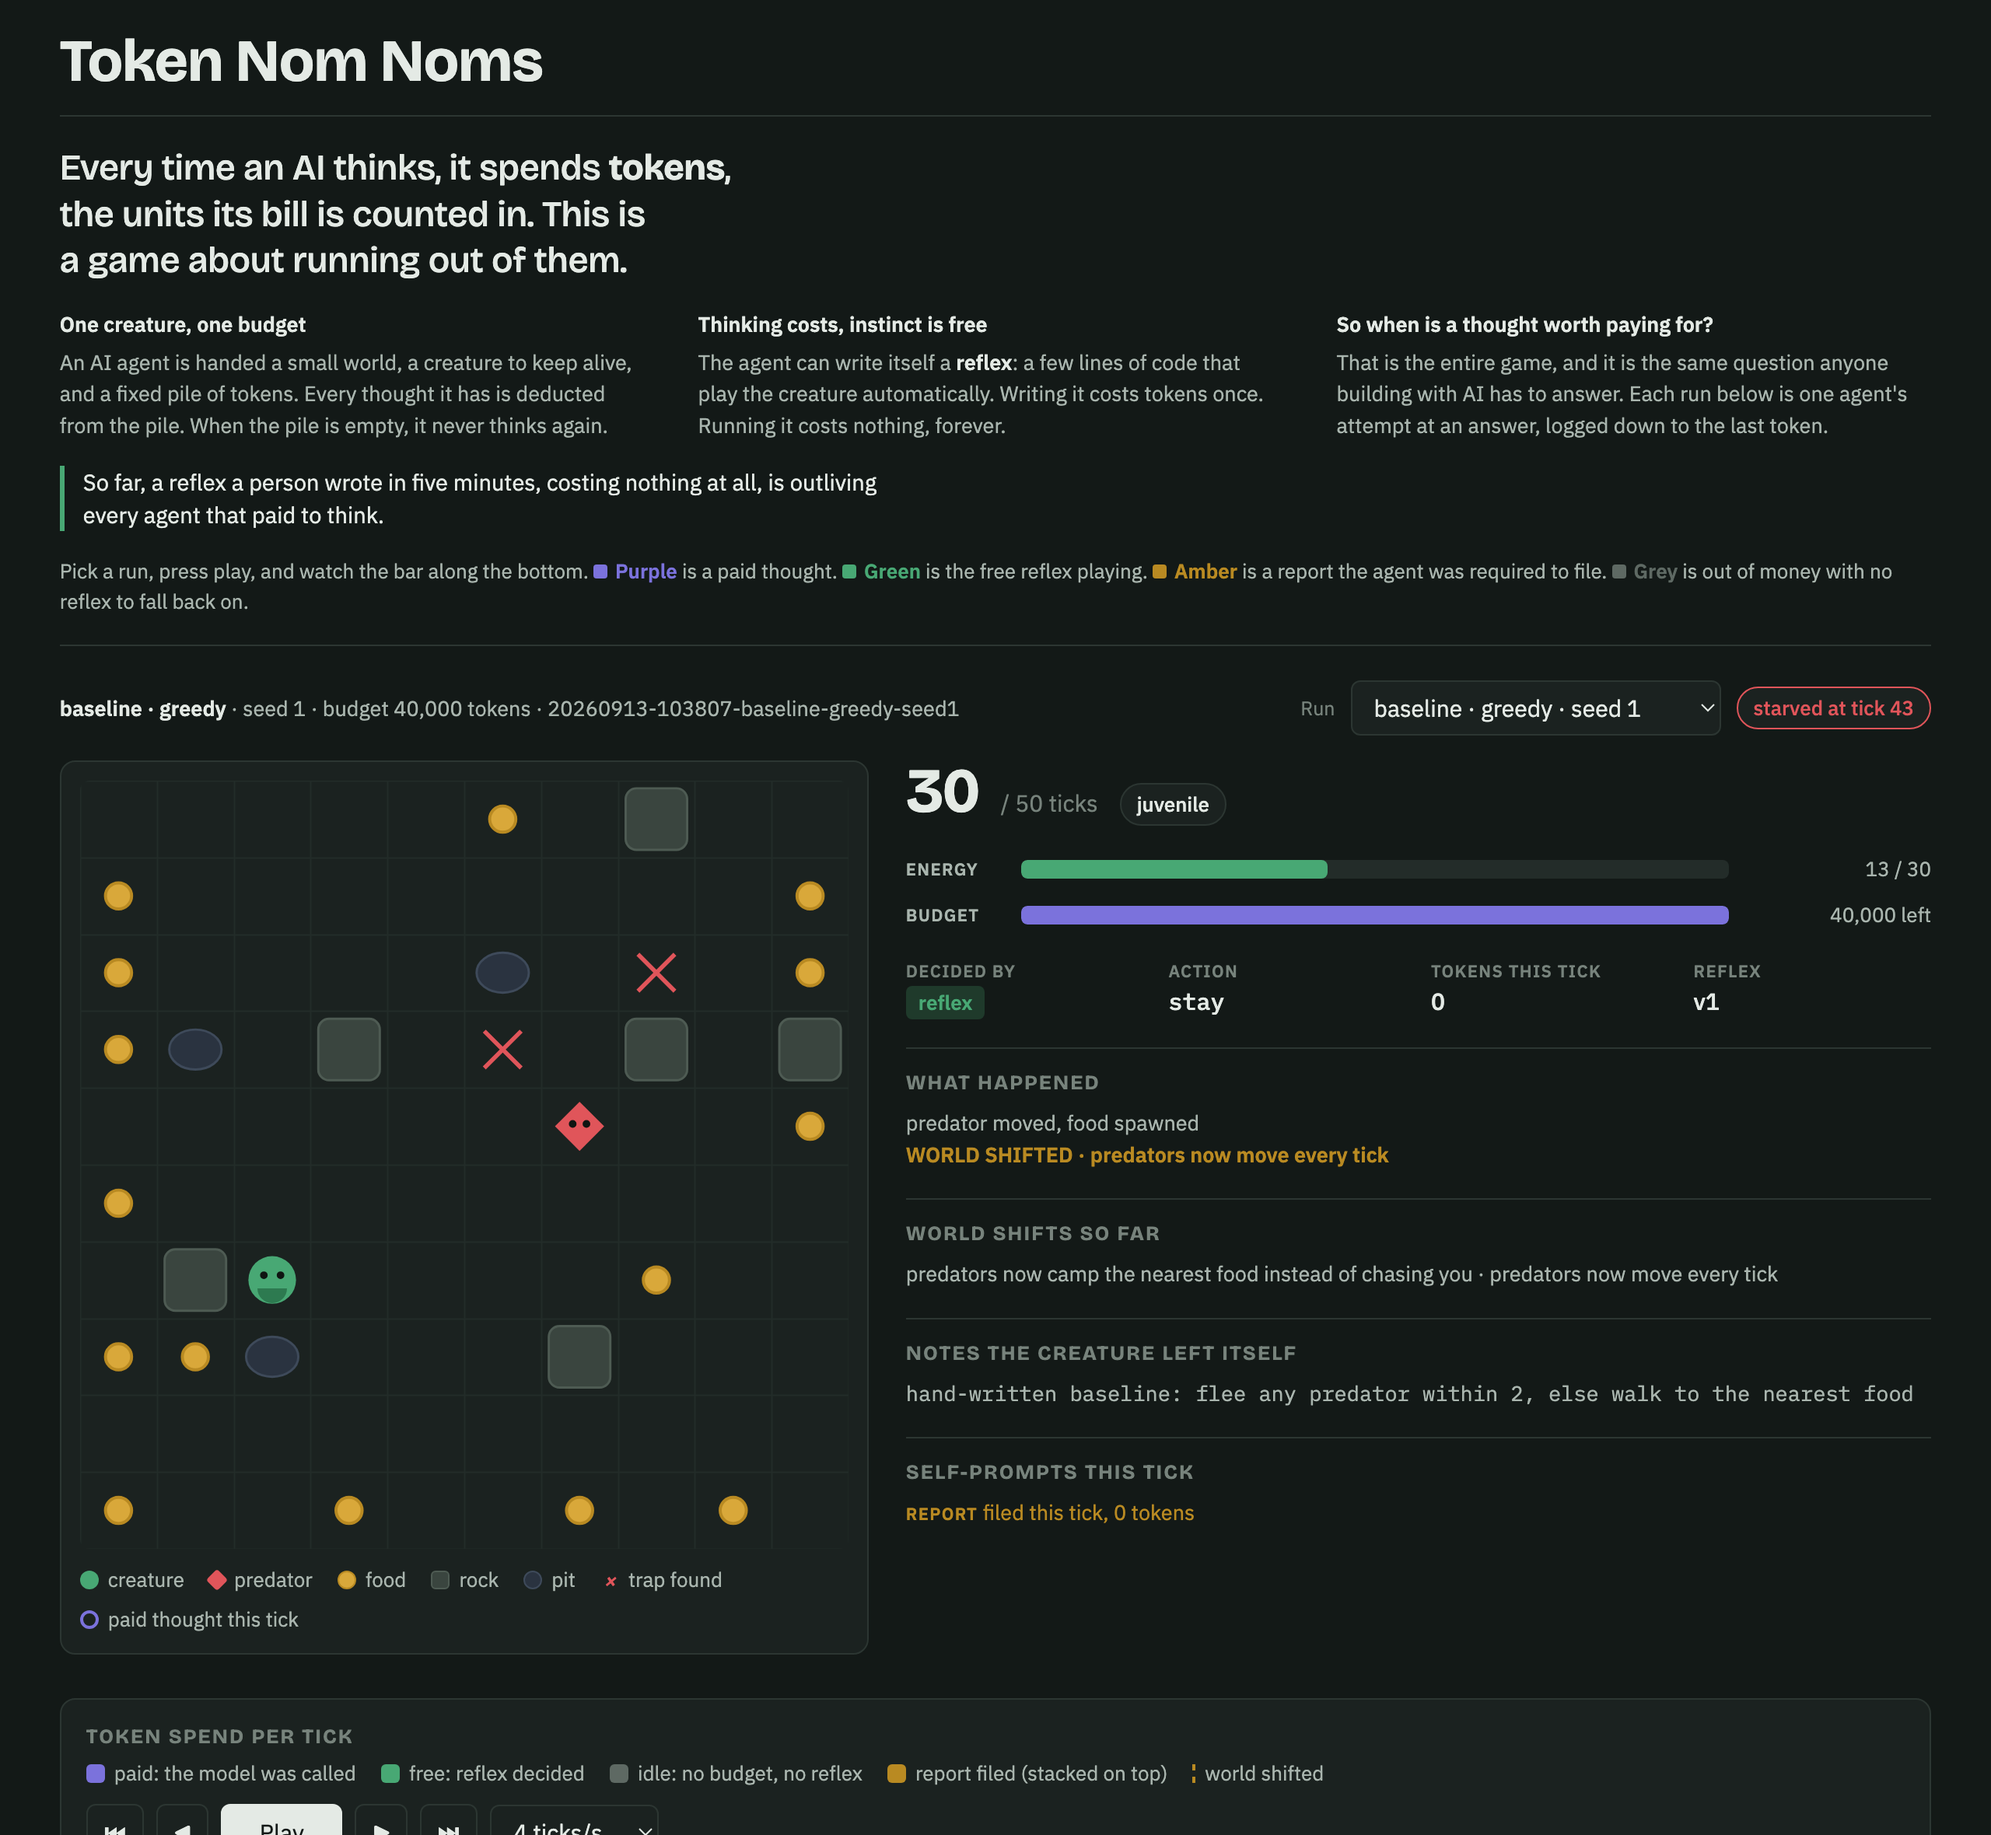
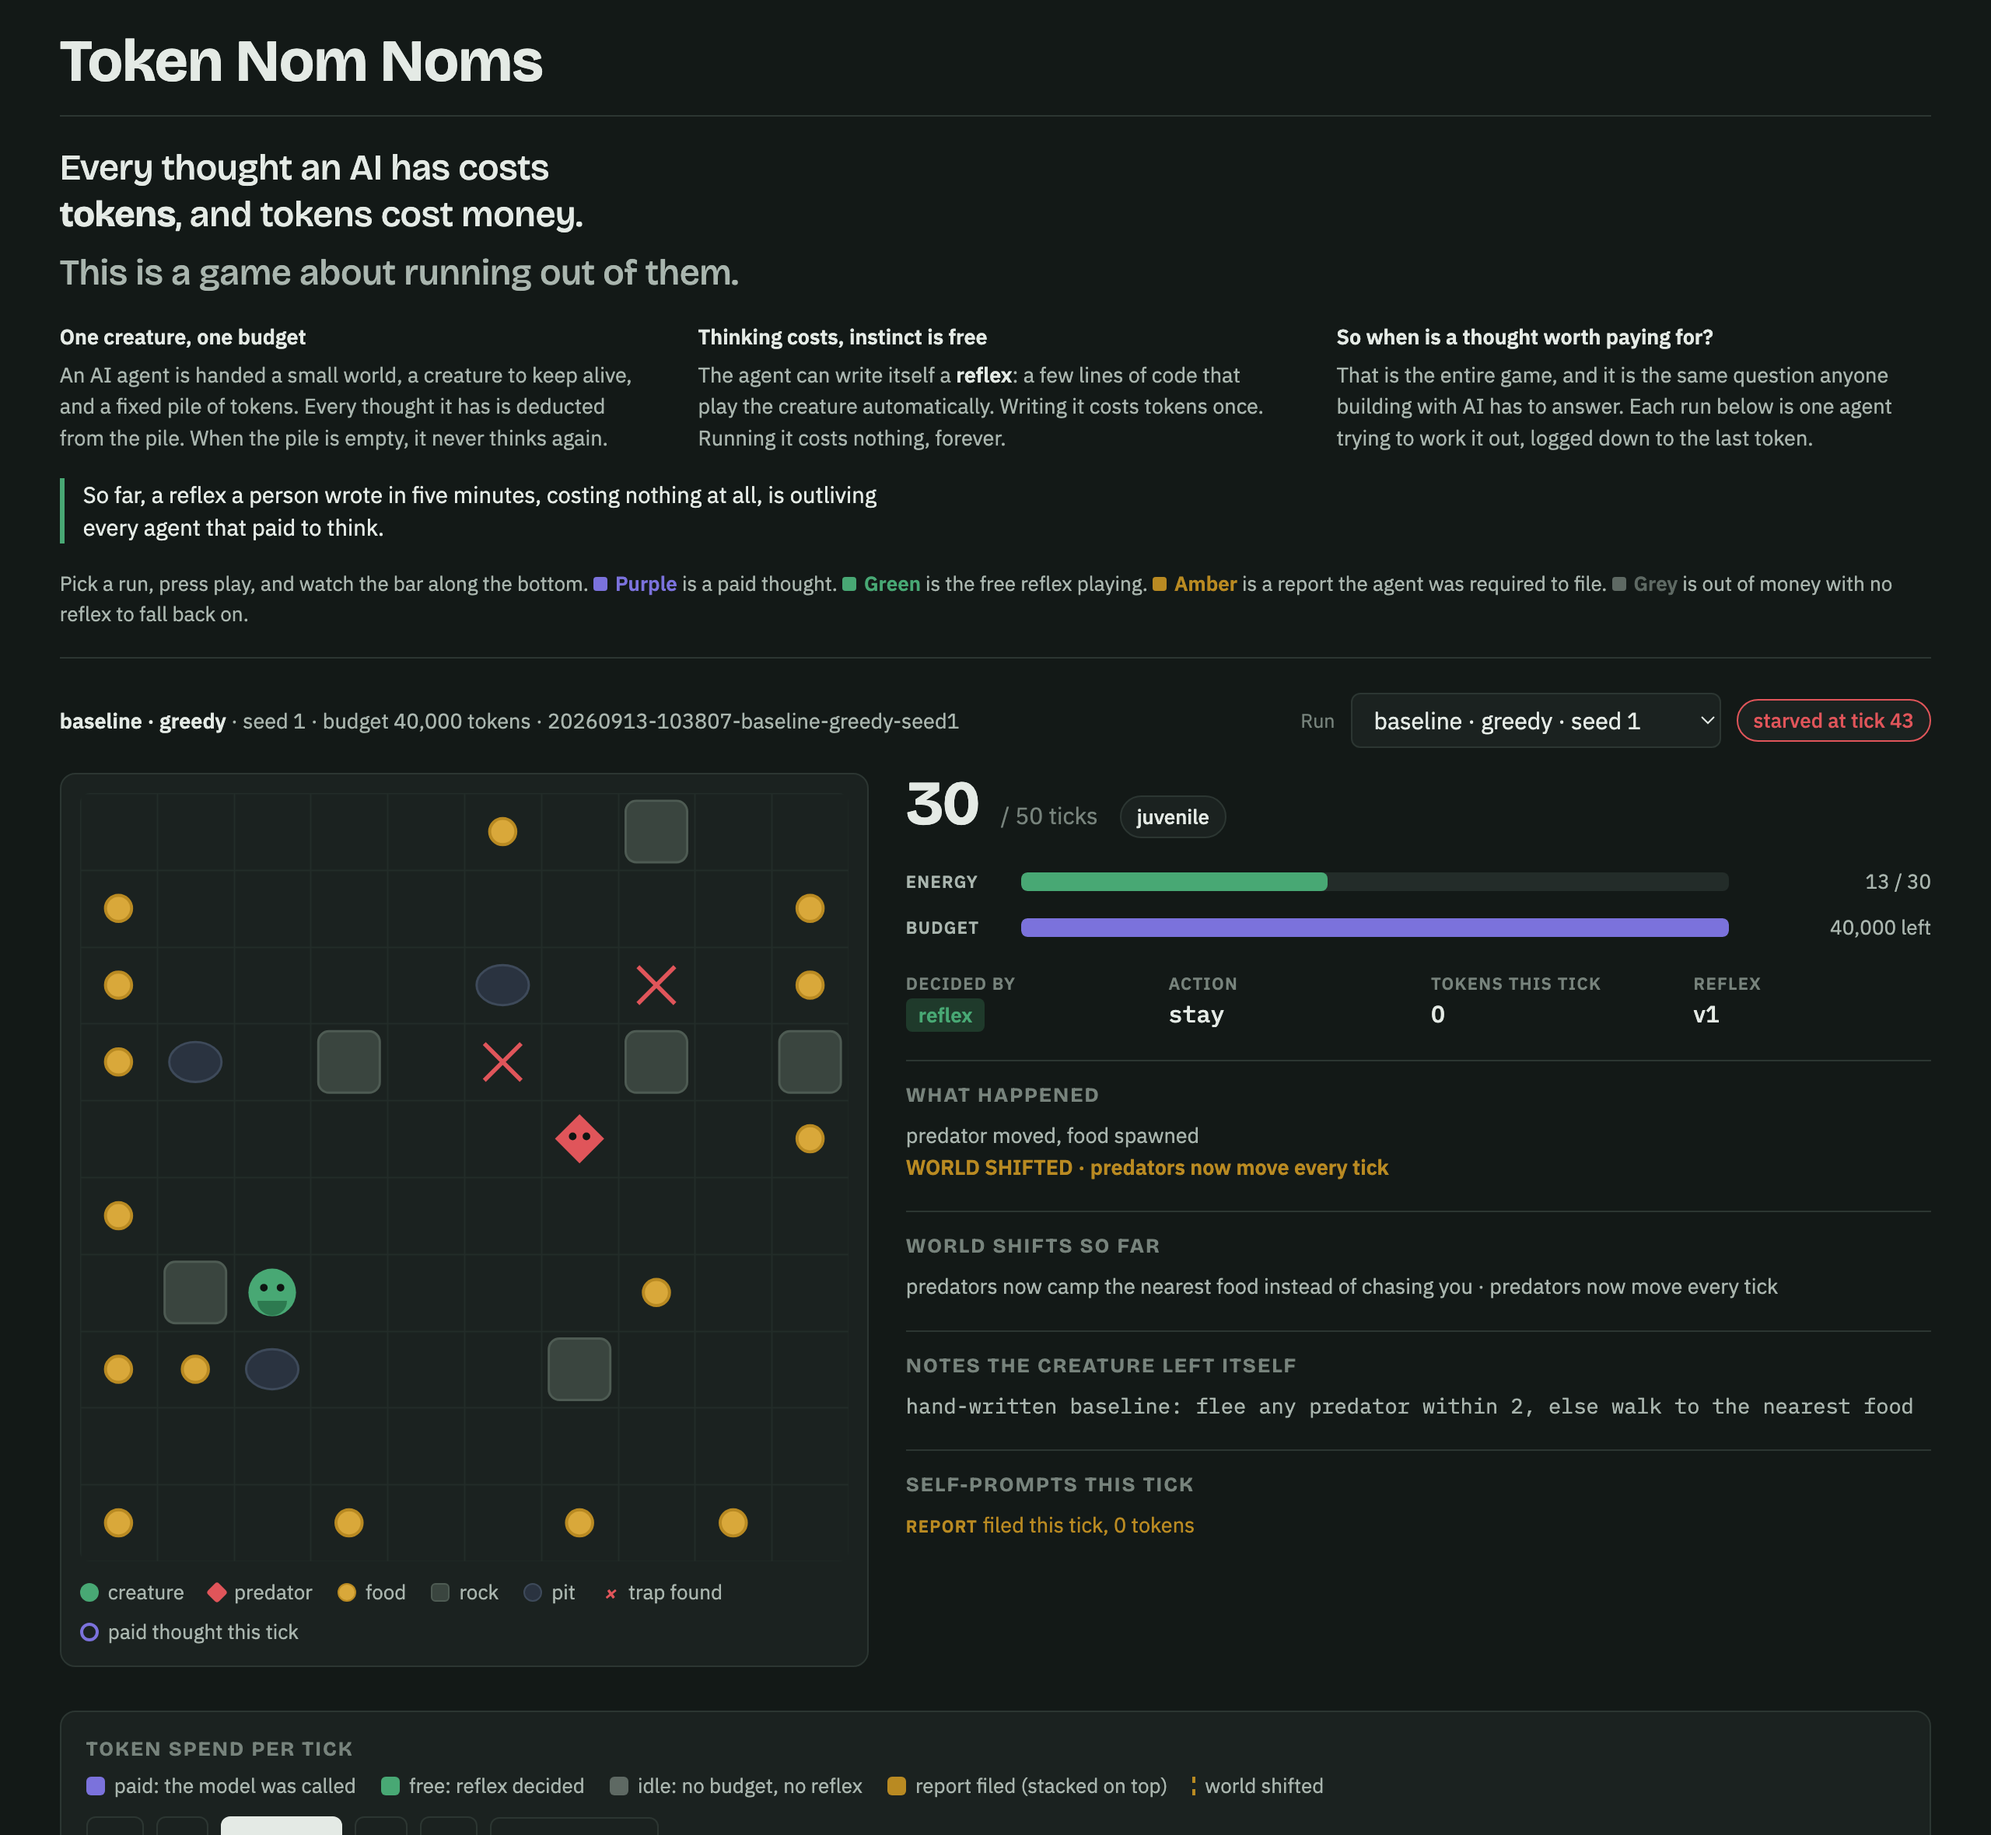
Plainer opening line on the landing page
"the units its bill is counted in" was an awkward gloss on "tokens". The
opening now says the same thing in words people use: every thought an AI has
costs tokens, and tokens cost money. The thesis that follows sits on its own
line so it reads as the claim it is.

Also drops an "answer ... answer" repetition in the third card.

Claude-Session: https://claude.ai/code/session_015Nv8rGndMP9cArJpVdB4Jq

diff --git a/docs/index.html b/docs/index.html
@@ -52,8 +52,9 @@ button:hover,select:hover{border-color:var(--ink-3)}
 button:focus-visible,select:focus-visible,input:focus-visible,canvas:focus-visible,.strip:focus-visible{outline:2px solid var(--focus);outline-offset:2px}
 button.primary{background:var(--ink);color:var(--bg);border-color:var(--ink);min-width:78px}
 .explain{border-top:1px solid var(--line);border-bottom:1px solid var(--line);padding-block:18px;margin-bottom:22px;display:grid;gap:16px}
-.lede{margin:0;font-family:"Bricolage Grotesque","IBM Plex Sans",system-ui,sans-serif;font-size:clamp(18px,2.2vw,23px);font-weight:500;line-height:1.3;letter-spacing:-0.01em;max-width:34ch;text-wrap:balance}
+.lede{margin:0;font-family:"Bricolage Grotesque","IBM Plex Sans",system-ui,sans-serif;font-size:clamp(18px,2.2vw,23px);font-weight:500;line-height:1.3;letter-spacing:-0.01em;max-width:38ch;text-wrap:balance}
 .lede b{font-weight:700}
+.lede2{display:inline-block;margin-top:.35em;color:var(--ink-2)}
 .how{display:grid;grid-template-columns:repeat(auto-fit,minmax(230px,1fr));gap:18px 28px}
 .how h3{margin:0 0 4px;font-family:"IBM Plex Sans",system-ui,sans-serif;font-size:13.5px;font-weight:600;color:var(--ink)}
 .how p{margin:0;font-size:13.5px;color:var(--ink-2);max-width:46ch}
@@ -124,7 +125,7 @@ pre{margin:0;background:var(--panel);border:1px solid var(--line);border-radius:
 </header>
 
 <section class="explain">
-  <p class="lede">Every time an AI thinks, it spends <b>tokens</b>, the units its bill is counted in. This is a game about running out of them.</p>
+  <p class="lede">Every thought an AI has costs <b>tokens</b>, and tokens cost money.<br><span class="lede2">This is a game about running out of them.</span></p>
   <div class="how">
     <div>
       <h3>One creature, one budget</h3>
@@ -136,7 +137,7 @@ pre{margin:0;background:var(--panel);border:1px solid var(--line);border-radius:
     </div>
     <div>
       <h3>So when is a thought worth paying for?</h3>
-      <p>That is the entire game, and it is the same question anyone building with AI has to answer. Each run below is one agent's attempt at an answer, logged down to the last token.</p>
+      <p>That is the entire game, and it is the same question anyone building with AI has to answer. Each run below is one agent trying to work it out, logged down to the last token.</p>
     </div>
   </div>
   <p class="finding">So far, a reflex a person wrote in five minutes, costing nothing at all, is outliving every agent that paid to think.</p>

diff --git a/nomnom/html.py b/nomnom/html.py
@@ -110,8 +110,9 @@ button:hover,select:hover{border-color:var(--ink-3)}
 button:focus-visible,select:focus-visible,input:focus-visible,canvas:focus-visible,.strip:focus-visible{outline:2px solid var(--focus);outline-offset:2px}
 button.primary{background:var(--ink);color:var(--bg);border-color:var(--ink);min-width:78px}
 .explain{border-top:1px solid var(--line);border-bottom:1px solid var(--line);padding-block:18px;margin-bottom:22px;display:grid;gap:16px}
-.lede{margin:0;font-family:"Bricolage Grotesque","IBM Plex Sans",system-ui,sans-serif;font-size:clamp(18px,2.2vw,23px);font-weight:500;line-height:1.3;letter-spacing:-0.01em;max-width:34ch;text-wrap:balance}
+.lede{margin:0;font-family:"Bricolage Grotesque","IBM Plex Sans",system-ui,sans-serif;font-size:clamp(18px,2.2vw,23px);font-weight:500;line-height:1.3;letter-spacing:-0.01em;max-width:38ch;text-wrap:balance}
 .lede b{font-weight:700}
+.lede2{display:inline-block;margin-top:.35em;color:var(--ink-2)}
 .how{display:grid;grid-template-columns:repeat(auto-fit,minmax(230px,1fr));gap:18px 28px}
 .how h3{margin:0 0 4px;font-family:"IBM Plex Sans",system-ui,sans-serif;font-size:13.5px;font-weight:600;color:var(--ink)}
 .how p{margin:0;font-size:13.5px;color:var(--ink-2);max-width:46ch}
@@ -182,7 +183,7 @@ pre{margin:0;background:var(--panel);border:1px solid var(--line);border-radius:
 </header>
 
 <section class="explain">
-  <p class="lede">Every time an AI thinks, it spends <b>tokens</b>, the units its bill is counted in. This is a game about running out of them.</p>
+  <p class="lede">Every thought an AI has costs <b>tokens</b>, and tokens cost money.<br><span class="lede2">This is a game about running out of them.</span></p>
   <div class="how">
     <div>
       <h3>One creature, one budget</h3>
@@ -194,7 +195,7 @@ pre{margin:0;background:var(--panel);border:1px solid var(--line);border-radius:
     </div>
     <div>
       <h3>So when is a thought worth paying for?</h3>
-      <p>That is the entire game, and it is the same question anyone building with AI has to answer. Each run below is one agent's attempt at an answer, logged down to the last token.</p>
+      <p>That is the entire game, and it is the same question anyone building with AI has to answer. Each run below is one agent trying to work it out, logged down to the last token.</p>
     </div>
   </div>
   <p class="finding">So far, a reflex a person wrote in five minutes, costing nothing at all, is outliving every agent that paid to think.</p>
